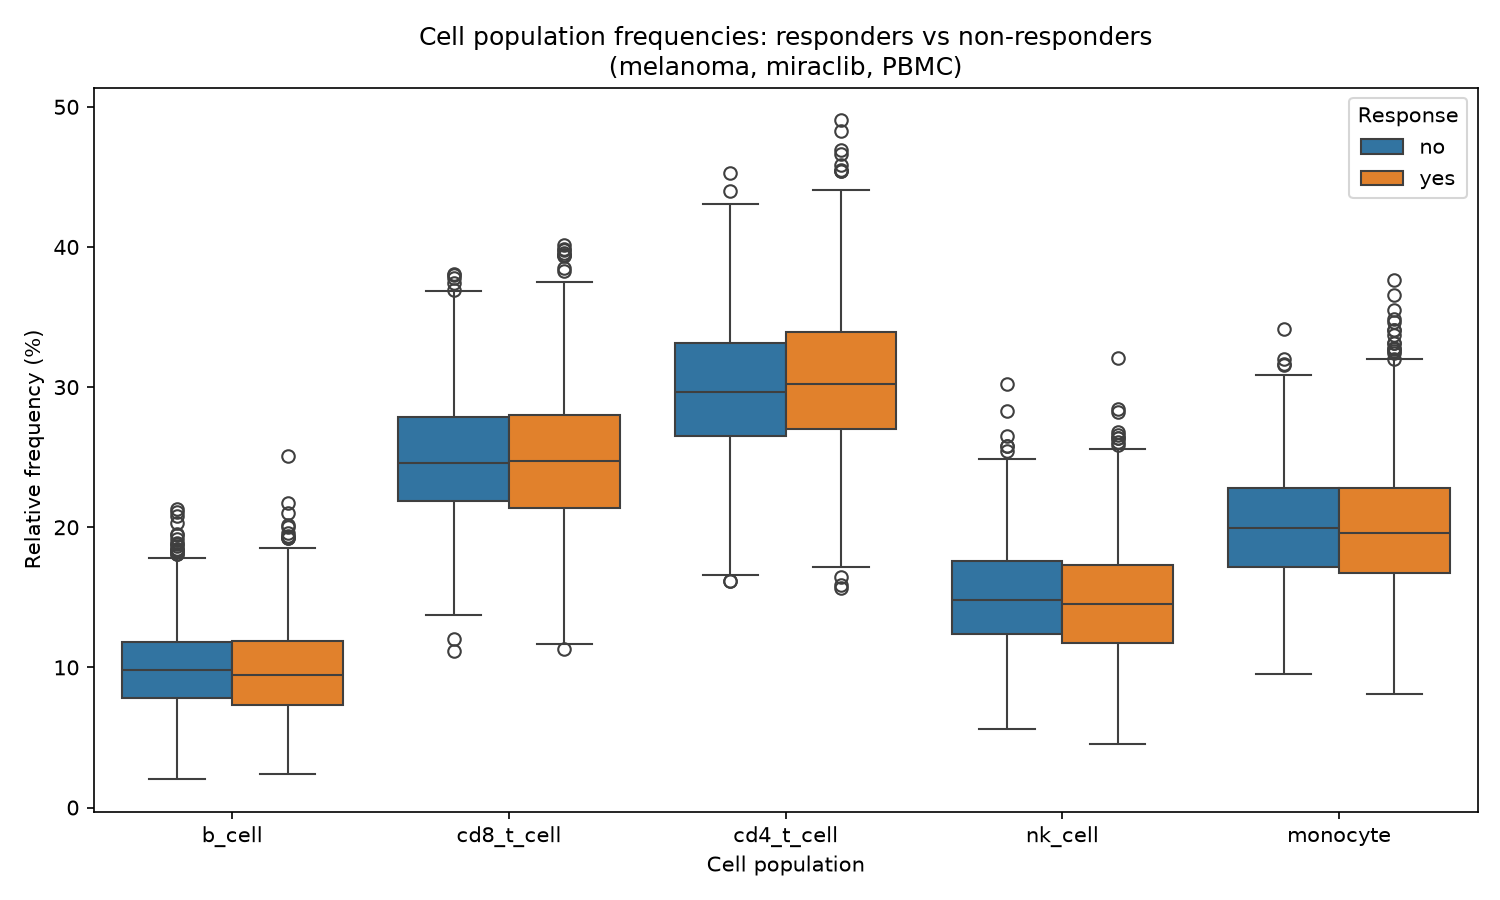
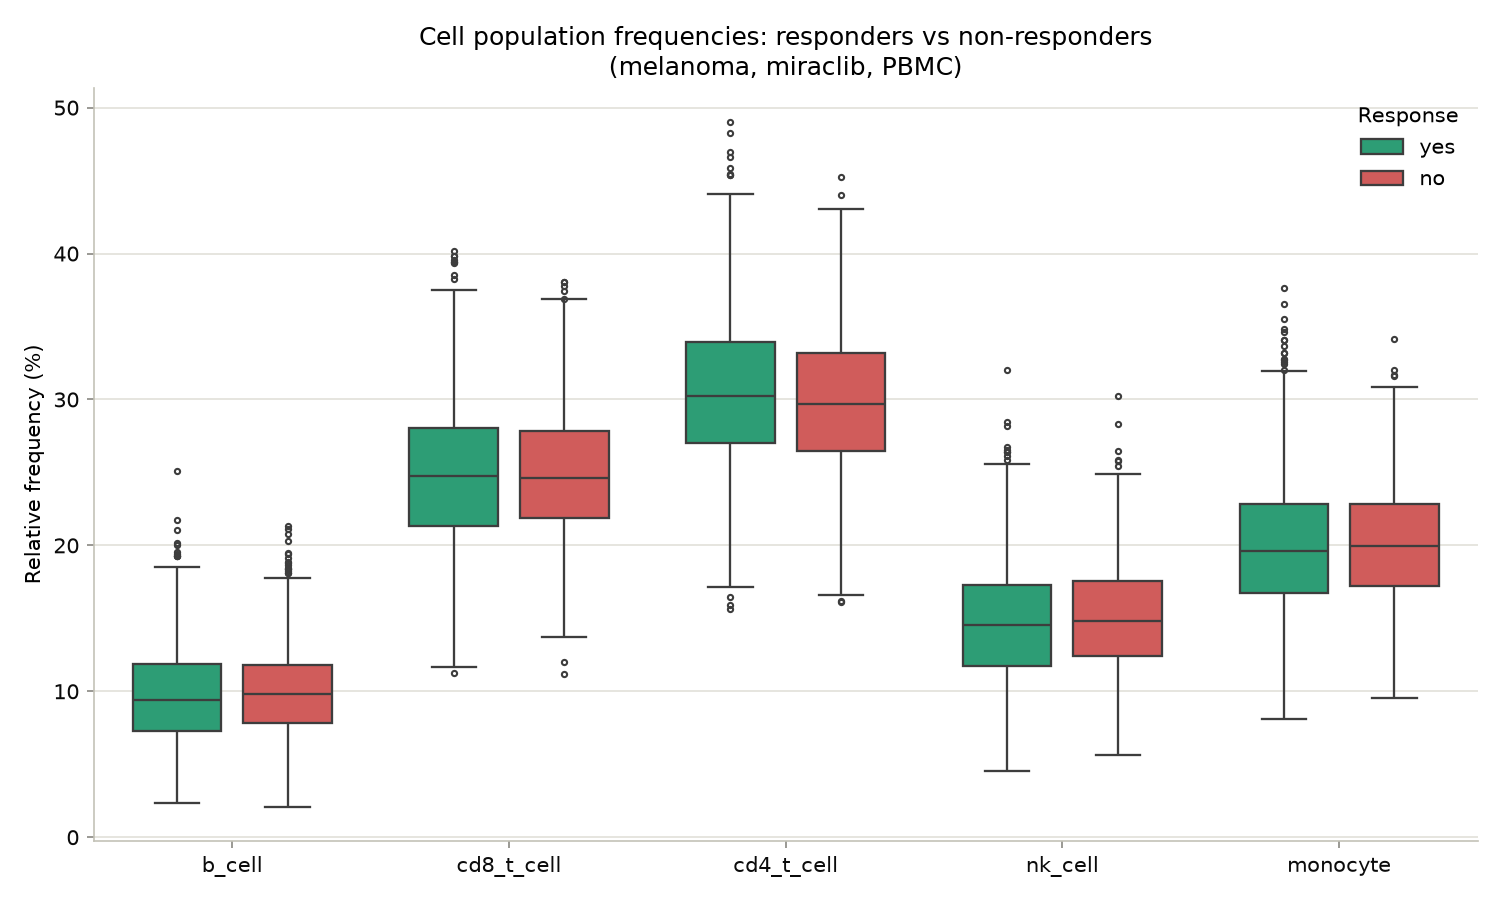
lab theme

diff --git a/dashboard.py b/dashboard.py
@@ -25,9 +25,70 @@ ROOT_DIR = Path(__file__).resolve().parent
 DATABASE_PATH = ROOT_DIR / "cell_counts.db"
 CSV_PATH = ROOT_DIR / "cell-count.csv"
 
+# lab palette
+TEAL = "#1baf7a"      # responders / accent
+RED = "#e34948"       # non-responders
+SURFACE = "#fcfcfb"
+INK = "#0b0b0b"
+MUTED = "#898781"
+GRID = "#e1e0d9"
+BASELINE = "#c3c2b7"
+
+# clinical / lab styling on top of the base theme in .streamlit/config.toml
+LAB_CSS = """
+<style>
+.block-container { padding-top: 2.2rem; max-width: 1150px; }
+
+/* header */
+.lab-title { font-size: 2rem; font-weight: 700; color: #0b0b0b; margin: 0; }
+.lab-sub { color: #52514e; font-size: 0.95rem; margin-top: 0.15rem; }
+.lab-rule { height: 3px; background: #1baf7a; width: 64px; border-radius: 2px;
+            margin: 0.6rem 0 0.2rem 0; }
+
+/* small monospace "lab report" eyebrow above each section */
+.eyebrow { font-family: ui-monospace, SFMono-Regular, Menlo, monospace;
+           font-size: 0.72rem; letter-spacing: 0.14em; text-transform: uppercase;
+           color: #1baf7a; font-weight: 600; }
+
+/* metric cards get a hairline border so they read like readout panels */
+[data-testid="stMetric"] {
+    background: #fcfcfb;
+    border: 1px solid rgba(11,11,11,0.10);
+    border-left: 3px solid #1baf7a;
+    border-radius: 6px;
+    padding: 0.8rem 1rem;
+}
+[data-testid="stMetricValue"] {
+    font-variant-numeric: tabular-nums;
+}
+
+/* sample ids / tables in monospace for the instrument feel */
+[data-testid="stDataFrame"] { font-family: ui-monospace, SFMono-Regular, Menlo, monospace; }
+
+/* tabs */
+.stTabs [data-baseweb="tab"] { font-weight: 600; }
+</style>
+"""
+
+
+def eyebrow(text):
+    st.markdown(f'<div class="eyebrow">{text}</div>', unsafe_allow_html=True)
+
+
+def style_axes(ax):
+    # recessive grid + axes, matching the marks spec
+    ax.set_facecolor(SURFACE)
+    ax.figure.set_facecolor(SURFACE)
+    for side in ["top", "right"]:
+        ax.spines[side].set_visible(False)
+    for side in ["left", "bottom"]:
+        ax.spines[side].set_color(BASELINE)
+    ax.tick_params(colors=MUTED, labelcolor=INK)
+    ax.grid(axis="y", color=GRID, linewidth=0.8)
+    ax.set_axisbelow(True)
+
 
 def database_has_data():
-    # True only if the db exists and actually has counts loaded.
     if not DATABASE_PATH.exists():
         return False
     try:
@@ -40,25 +101,20 @@ def database_has_data():
 
 
 def ensure_database():
-    # Build the db from the csv if we don't already have a populated one, so
-    # the app works on a fresh deploy where the .db isn't checked in.
-    # We build into a temp file and swap it in only once it's fully loaded,
-    # otherwise an interrupted build leaves an empty db behind and every
-    # later run reads 0 rows (this is what made the hosted app come up empty).
+    # Build the db from the csv if we don't already have a populated one.
+    # Build into a temp file and swap it in only once it's fully loaded, so an
+    # interrupted build never leaves an empty db behind.
     if database_has_data():
         return
-
     building = DATABASE_PATH.with_name("cell_counts.building.db")
     if building.exists():
         building.unlink()
-
     dataframe = pd.read_csv(CSV_PATH)
     connection = initialize_database(building)
     try:
         load_dataframe(connection, dataframe)
     finally:
         connection.close()
-
     os.replace(building, DATABASE_PATH)
 
 
@@ -75,8 +131,8 @@ def load_data():
     return frequencies, metadata
 
 
-st.set_page_config(page_title="Loblaw Bio Cell Counts", layout="wide")
-st.title("Loblaw Bio - Immune Cell Population Dashboard")
+st.set_page_config(page_title="Loblaw Bio Cell Counts", page_icon="🧬", layout="wide")
+st.markdown(LAB_CSS, unsafe_allow_html=True)
 
 if not DATABASE_PATH.exists() and not CSV_PATH.exists():
     st.error("Neither the database nor cell-count.csv was found.")
@@ -85,13 +141,21 @@ if not DATABASE_PATH.exists() and not CSV_PATH.exists():
 ensure_database()
 frequencies, metadata = load_data()
 
+# header
+st.markdown('<div class="lab-title">Loblaw Bio / Immune Cell Populations</div>',
+            unsafe_allow_html=True)
+st.markdown('<div class="lab-sub">Immunophenotyping readout for the miraclib clinical trial</div>',
+            unsafe_allow_html=True)
+st.markdown('<div class="lab-rule"></div>', unsafe_allow_html=True)
+
 tab_overview, tab_response, tab_subset = st.tabs(
     ["Overview (Part 2)", "Responder analysis (Part 3)", "Baseline subset (Part 4)"]
 )
 
 # Part 2 - relative frequency overview
 with tab_overview:
-    st.header("Relative frequency of each cell population")
+    eyebrow("Part 02 / Cell population frequencies")
+    st.subheader("Relative frequency of each cell population")
     st.write(
         "For every sample we sum the five populations and express each "
         "population as a percentage of that total."
@@ -108,7 +172,8 @@ with tab_overview:
 
 # Part 3 - responders vs non-responders
 with tab_response:
-    st.header("Responders vs non-responders")
+    eyebrow("Part 03 / Response signature")
+    st.subheader("Responders vs non-responders")
     st.write(
         "Cohort: **melanoma** patients on **miraclib**, **PBMC** samples only. "
         "Each population is compared with a Mann-Whitney U test."
@@ -125,16 +190,23 @@ with tab_response:
             x="population",
             y="percentage",
             hue="response",
+            hue_order=["yes", "no"],
             order=POPULATIONS,
+            palette={"yes": TEAL, "no": RED},
+            gap=0.2,
+            linewidth=1.1,
+            fliersize=2.5,
             ax=ax,
         )
-        ax.set_xlabel("Cell population")
-        ax.set_ylabel("Relative frequency (%)")
-        ax.legend(title="Response")
+        style_axes(ax)
+        ax.set_xlabel("")
+        ax.set_ylabel("Relative frequency (%)", color=INK)
+        legend = ax.legend(title="Response", frameon=False)
+        legend.get_title().set_color(INK)
         st.pyplot(fig)
 
     with col_stats:
-        st.subheader("Statistics")
+        st.markdown("**Statistics**")
         st.dataframe(stats_table, width="stretch", hide_index=True)
 
     significant = stats_table[stats_table["significant"]]["population"].tolist()
@@ -145,7 +217,8 @@ with tab_response:
 
 # Part 4 - baseline subset
 with tab_subset:
-    st.header("Baseline melanoma / miraclib / PBMC samples (time = 0)")
+    eyebrow("Part 04 / Baseline cohort")
+    st.subheader("Baseline melanoma / miraclib / PBMC samples (time = 0)")
 
     baseline = get_baseline_cohort(metadata)
     summary = summarize_baseline(baseline)
@@ -154,13 +227,13 @@ with tab_subset:
 
     col1, col2, col3 = st.columns(3)
     with col1:
-        st.subheader("Samples per project")
+        st.markdown("**Samples per project**")
         st.dataframe(summary["samples_per_project"].rename("samples"), width="stretch")
     with col2:
-        st.subheader("Subjects by response")
+        st.markdown("**Subjects by response**")
         st.dataframe(summary["subjects_by_response"].rename("subjects"), width="stretch")
     with col3:
-        st.subheader("Subjects by sex")
+        st.markdown("**Subjects by sex**")
         st.dataframe(summary["subjects_by_sex"].rename("subjects"), width="stretch")
 
     st.divider()

diff --git a/src/analysis.py b/src/analysis.py
@@ -58,22 +58,37 @@ def compare_responders(frequencies):
 
 def plot_responder_boxplot(frequencies, output_path):
     # One grouped boxplot so the responder/non-responder comparison is
-    # easy to read for all five populations at once.
+    # easy to read for all five populations at once. Teal = responders,
+    # red = non-responders, to match the dashboard.
     cohort = get_miraclib_melanoma_pbmc(frequencies)
 
-    plt.figure(figsize=(10, 6))
+    teal, red, muted, grid, baseline = "#1baf7a", "#e34948", "#898781", "#e1e0d9", "#c3c2b7"
+    fig, ax = plt.subplots(figsize=(10, 6))
     sns.boxplot(
         data=cohort,
         x="population",
         y="percentage",
         hue="response",
+        hue_order=["yes", "no"],
         order=POPULATIONS,
+        palette={"yes": teal, "no": red},
+        gap=0.2,
+        linewidth=1.1,
+        fliersize=2.5,
+        ax=ax,
     )
-    plt.title("Cell population frequencies: responders vs non-responders\n"
-              "(melanoma, miraclib, PBMC)")
-    plt.xlabel("Cell population")
-    plt.ylabel("Relative frequency (%)")
-    plt.legend(title="Response")
+    for side in ["top", "right"]:
+        ax.spines[side].set_visible(False)
+    for side in ["left", "bottom"]:
+        ax.spines[side].set_color(baseline)
+    ax.tick_params(colors=muted, labelcolor="#0b0b0b")
+    ax.grid(axis="y", color=grid, linewidth=0.8)
+    ax.set_axisbelow(True)
+    ax.set_title("Cell population frequencies: responders vs non-responders\n"
+                 "(melanoma, miraclib, PBMC)")
+    ax.set_xlabel("")
+    ax.set_ylabel("Relative frequency (%)")
+    ax.legend(title="Response", frameon=False)
     plt.tight_layout()
     plt.savefig(output_path, dpi=150)
     plt.close()